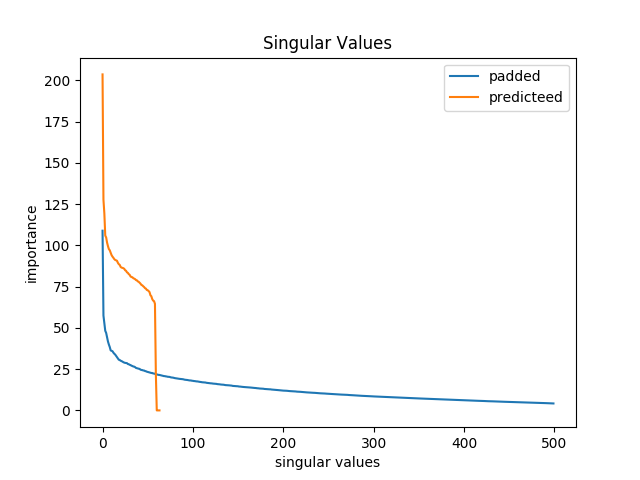
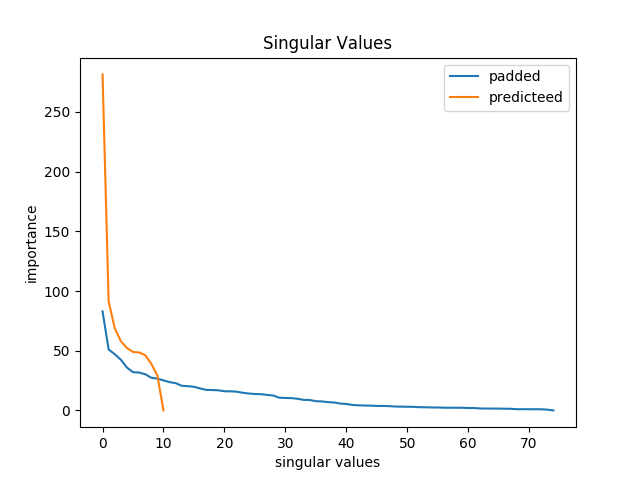
Display URL on card page. TODO: make it pretty

diff --git a/rateme/templates/rate.html b/rateme/templates/rate.html
@@ -30,6 +30,15 @@
             <p>No tags</p>
         </div>
     {% endif %}
+    {% if card.url %}
+        <div class="card_url">
+            <a href="{{ card.url }}">{{ card.url }}</a>
+        </div>
+    {% else %}
+        <div class="card_url">
+            <p>No url</p>
+        </div>
+    {% endif %}
 
     <form class="rate_page_form" method="POST">
         {% csrf_token %}

diff --git a/rateme/management/commands/make_recommendations.py b/rateme/management/commands/make_recommendations.py
@@ -14,7 +14,7 @@ NSTEPS = 3 # number of iteration steps between saving
 # NOTE: rank 15 is too small, let's try 30
 # 30 is still too small, try 60. NOTE: 100 was ok but felt like overfitting. Overfitting better?
 
-RANK = 60
+RANK = 10
 CONSIDER_ACTIVE = 30*60*60*24 # in seconds, 
                               # i.e. 60*60*24 -- only update those users that logged in at least a day ago
 MINRATING = 0.1 # minimum rating to consider for recommendation

diff --git a/rateme/management/commands/make_statistics.py b/rateme/management/commands/make_statistics.py
@@ -87,7 +87,7 @@ class Command(BaseCommand):
                str(len(data)/(num_users*num_cards)*100) + "%")
 
         def get_sing_vals_rank(matrix):
-            ut, s, vt = sparsesvd(csc_matrix(matrix), 500) # TODO: replace 500
+            ut, s, vt = sparsesvd(csc_matrix(matrix), 100) # TODO: replace 500
 
             return s
 
